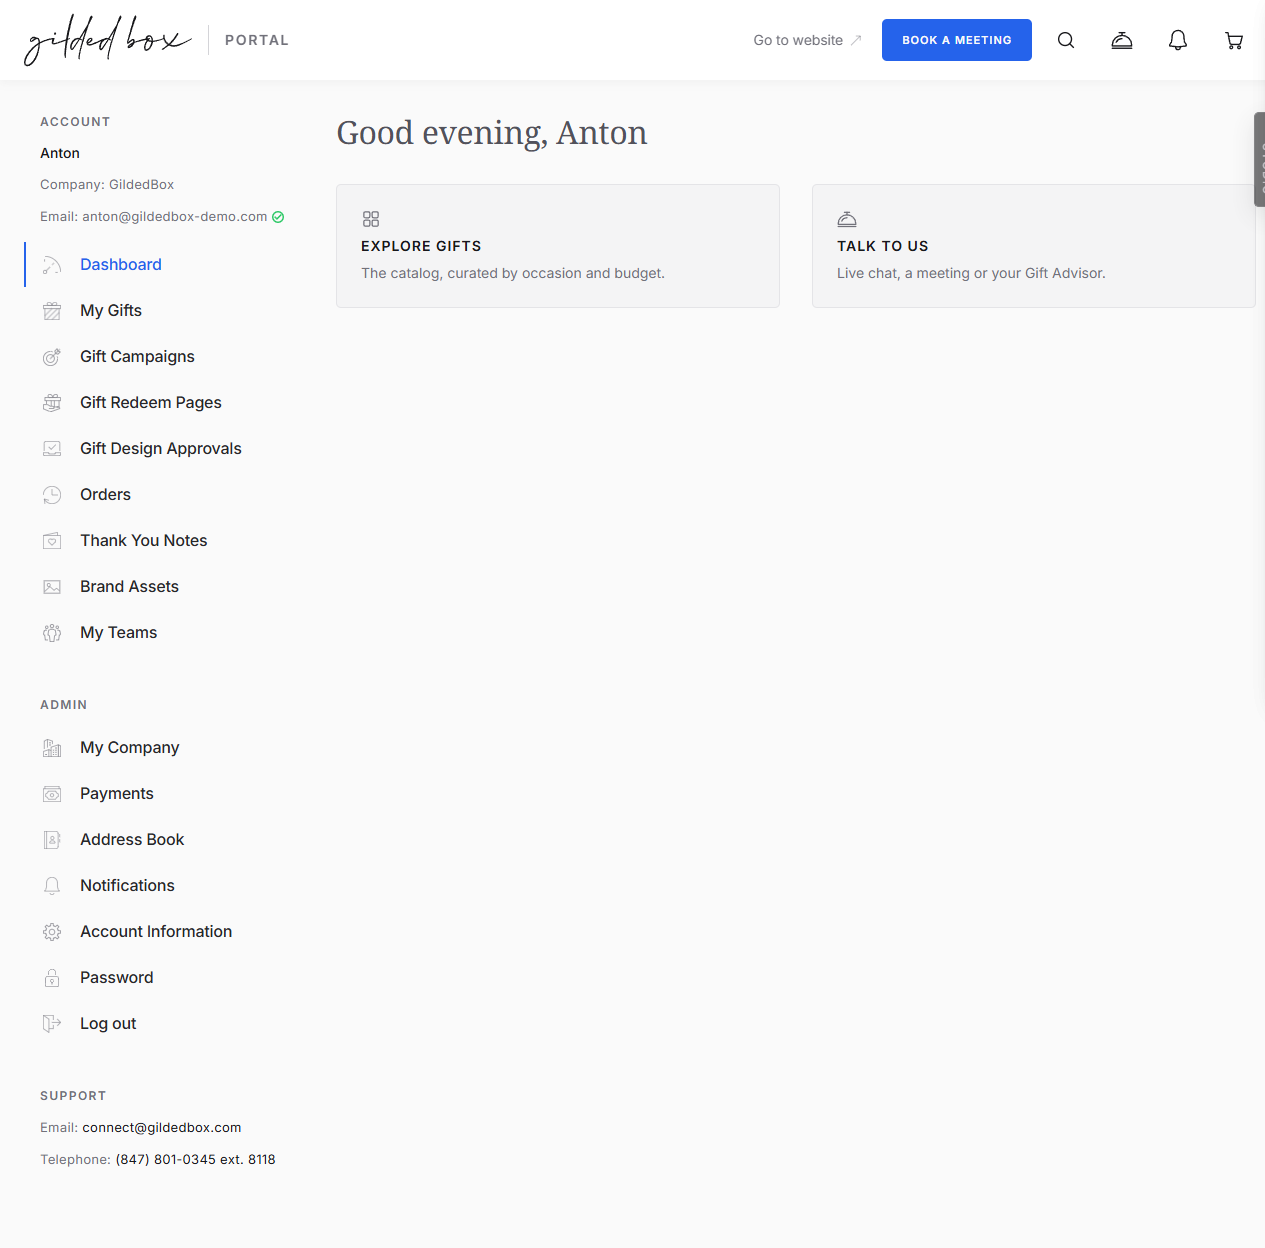
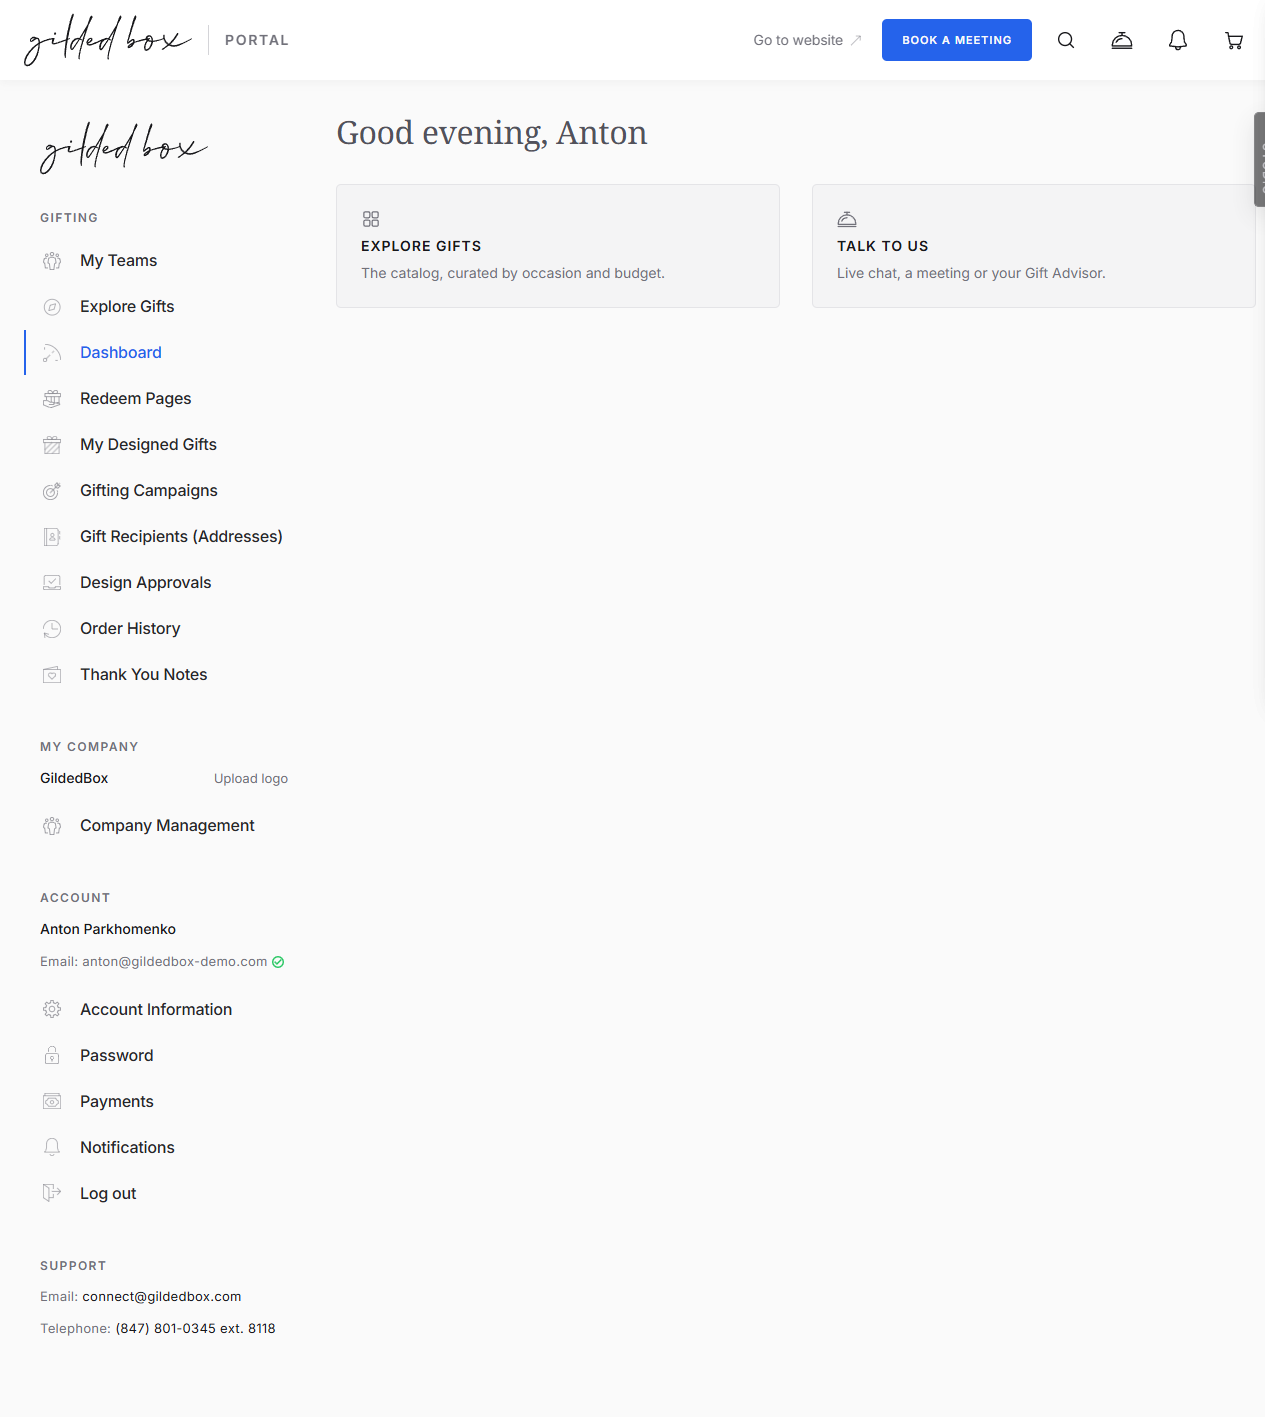
fix(portal): the dashboard wears the ren rail, content and all
Ton: the reference is portal.html?nav=ren, not ton. The probe says
what happened. The SKIN was already ren's, value for value, because
that is the recipe I ported on the first pass: item 46, label 16/500
Zinc 800 at -0.2px in sentence case, glyphs 18 at 0.8 opacity,
eyebrow section titles, the chosen row as a 2px Blue rule with a
blue label, 40 between sections, rail 280. What was still the old
live page was the CONTENT under that skin: Account / Admin /
Support, seventeen rows in the live names and grouping.

nav=ton against nav=ren, measured on the running page: ton is the
boxed rail (white blocks, Zinc 50 header bands, 20/300 section
titles with 2px tracking, 14/400 uppercase labels, 22px glyphs at
full ink, hairlines between rows, rail 320, blue plate on the chosen
row). ren is data-nav="ton" plus the ren skin on top, which
de-boxes all of it. So «ton» was never a second design, it is the
same fork undressed, and the approved thing is the dressed one.

The rail is now ren's block for block and item for item, read off
the running page rather than the source: the wordmark masthead, one
GIFTING group in Russell's renames (My Teams, Explore Gifts,
Dashboard, Redeem Pages, My Designed Gifts, Gifting Campaigns, Gift
Recipients (Addresses), Design Approvals, Order History, Thank You
Notes), My Company with its Upload logo row, Account, Support. Two
things are ours and say so in the markup: Dashboard is the chosen
[…]

diff --git a/live/portal-dashboard.html b/live/portal-dashboard.html
@@ -1413,6 +1413,31 @@ body[data-nav="ton"] .snav-item.active .snav-label { font-weight: 500; color: va
    correction this wave made to live\portal.html itself. */
 body[data-nav="ton"] .snav-icon img { max-width: 18px; max-height: 18px; opacity: .8; }
 
+/* THE MASTHEAD AND THE COMPANY ROW, ported with the rail. Values are
+   live\portal.html's own: the wordmark rides the shared 16px left
+   axis at 8/16 pads, its block keeps a tighter 24 to the first
+   section (the 40 rhythm is section to section), and Upload logo is
+   the quiet 13px text link that stands at the right end of the
+   company row. */
+.masthead-inner { padding: 8px var(--space-16); display: flex; justify-content: flex-start; }
+.masthead-logo { display: block; width: 168px; height: 56px; }
+body[data-nav="ton"] .masthead + .snav-block { margin-top: var(--space-24); }
+.company-block .snav-info .snav-row { justify-content: space-between; }
+.upload-logo {
+  font-size: 13px;                  /* LIVE portal ren: the quiet text link */
+  color: var(--zinc-500);
+  text-decoration: none;
+}
+a.upload-logo, body.gb-demo a.upload-logo { color: var(--zinc-500); }
+.upload-logo:hover { text-decoration: underline; }
+
+/* The page ground is the rail's ground: ren stands on Zinc 50 and so
+   does this. shell.css paints body.gb-demo with --live-body (#fcfdfd,
+   the portal's own near-white), which is a 0-1-1 rule and outranks a
+   bare body, so the class is named here too (measured before:
+   252,253,253 against ren's 250,250,250). */
+body.gb-demo { background: var(--zinc-50); }
+
 /* THE CONTENT COLUMN IS THE RULER, NOT THE WINDOW. With a 320 rail
    beside it the board is 880 at 1280 and 1568 at 2258, and a media
    query would give both the same three columns. */
@@ -1564,51 +1589,74 @@ html[data-gbppd-state="empty"] .gbppd-filled { display: none; }
          portal stands. Both classes are live\portal.html's own. -->
     <div class="layout gb-container">
 
+      <!-- ============ THE RAIL IS live\portal.html?nav=ren ============
+           gbppl-portal-dashboard-10, Ton: «эталон = ?nav=ren». The
+           dashboard wore the ren SKIN already (measured: item 46,
+           label 16/500 Zinc 800 at -0.2, glyphs 18 at .8, eyebrow
+           section titles, blue rule on the chosen row, 40 between
+           sections) but it carried the OLD live CONTENT underneath
+           it. This is ren's rail, block for block and item for item,
+           read off the running page with the probe rather than out
+           of the source: the masthead wordmark, one GIFTING group in
+           Russell's renames, My Company with its Upload logo row,
+           Account, Support.
+
+           TWO THINGS ARE OURS AND SAY SO: Dashboard is the chosen
+           row (on ren the chosen one is My Designed Gifts, because
+           that is the page you are standing on), and Explore Gifts
+           opens the catalogue overlay ON THIS PAGE through the same
+           data-gbppd-catalog door the block action uses. -->
       <aside class="sidebar">
 
+        <section class="snav-block masthead">
+          <div class="masthead-inner">
+            <a href="portal.html"><img class="masthead-logo" src="../system/icons/gildedbox-logo.svg" alt="GildedBox"></a>
+          </div>
+        </section>
+
         <section class="snav-block">
-          <header class="snav-header">
-            <span class="snav-title">Account</span>
-          </header>
+          <header class="snav-header"><span class="snav-title">Gifting</span></header>
+          <nav class="snav-menu">
+          <a class="snav-item" href="portal.html"><span class="snav-icon"><img src="../system/icons/crowd-2.svg" alt=""></span><span class="snav-label">My Teams</span></a>
+          <a class="snav-item" href="catalog/index.html" data-gbppd-catalog><span class="snav-icon"><img src="../system/icons/explore.svg" alt=""></span><span class="snav-label">Explore Gifts</span></a>
+          <a class="snav-item active" href="#"><span class="snav-icon"><img src="../system/icons/metrics.svg" alt=""></span><span class="snav-label">Dashboard</span></a>
+          <a class="snav-item" href="portal.html"><span class="snav-icon"><img src="../system/icons/gift-exchange.svg" alt=""></span><span class="snav-label">Redeem Pages</span></a>
+          <a class="snav-item" href="portal.html"><span class="snav-icon"><img src="../system/icons/gift.svg" alt=""></span><span class="snav-label">My Designed Gifts</span></a>
+          <a class="snav-item" href="portal.html"><span class="snav-icon"><img src="../system/icons/archery-target.svg" alt=""></span><span class="snav-label">Gifting Campaigns</span></a>
+          <a class="snav-item" href="portal.html"><span class="snav-icon"><img src="../system/icons/address-book.svg" alt=""></span><span class="snav-label">Gift Recipients (Addresses)</span></a>
+          <a class="snav-item" href="portal.html"><span class="snav-icon"><img src="../system/icons/laptop-check.svg" alt=""></span><span class="snav-label">Design Approvals</span></a>
+          <a class="snav-item" href="portal.html"><span class="snav-icon"><img src="../system/icons/time-machine.svg" alt=""></span><span class="snav-label">Order History</span></a>
+          <a class="snav-item" href="portal.html"><span class="snav-icon"><img src="../system/icons/love-card.svg" alt=""></span><span class="snav-label">Thank You Notes</span></a>
+          </nav>
+        </section>
+
+        <section class="snav-block company-block">
+          <header class="snav-header"><span class="snav-title">My Company</span></header>
           <div class="snav-info">
-            <div class="snav-row"><span class="snav-name">Anton</span></div>
-            <div class="snav-row"><span class="snav-key">Company:</span><span class="snav-val">GildedBox</span></div>
+            <div class="snav-row"><span class="snav-name">GildedBox</span><a class="upload-logo" href="#">Upload logo</a></div>
+          </div>
+          <nav class="snav-menu">
+          <a class="snav-item" href="portal.html"><span class="snav-icon"><img src="../system/icons/crowd-2.svg" alt=""></span><span class="snav-label">Company Management</span></a>
+          </nav>
+        </section>
+
+        <section class="snav-block">
+          <header class="snav-header"><span class="snav-title">Account</span></header>
+          <div class="snav-info">
+            <div class="snav-row"><span class="snav-name">Anton Parkhomenko</span></div>
             <div class="snav-row"><span class="snav-key">Email:</span><span class="snav-val">anton@gildedbox-demo.com<img class="snav-check" src="../system/icons/c-check.svg" alt=""></span></div>
           </div>
-          <!-- DASHBOARD IS THE NEW ROW, and it is the chosen one.
-               Everything under it is the live list in the live order. -->
           <nav class="snav-menu">
-          <a class="snav-item active" href="#"><span class="snav-icon"><img src="../system/icons/metrics.svg" alt=""></span><span class="snav-label">Dashboard</span></a>
-          <a class="snav-item" href="portal.html"><span class="snav-icon"><img src="../system/icons/gift.svg" alt=""></span><span class="snav-label">My Gifts</span></a>
-          <a class="snav-item" href="#"><span class="snav-icon"><img src="../system/icons/archery-target.svg" alt=""></span><span class="snav-label">Gift Campaigns</span></a>
-          <a class="snav-item" href="#"><span class="snav-icon"><img src="../system/icons/gift-exchange.svg" alt=""></span><span class="snav-label">Gift Redeem Pages</span></a>
-          <a class="snav-item" href="#"><span class="snav-icon"><img src="../system/icons/laptop-check.svg" alt=""></span><span class="snav-label">Gift Design Approvals</span></a>
-          <a class="snav-item" href="#"><span class="snav-icon"><img src="../system/icons/time-machine.svg" alt=""></span><span class="snav-label">Orders</span></a>
-          <a class="snav-item" href="#"><span class="snav-icon"><img src="../system/icons/love-card.svg" alt=""></span><span class="snav-label">Thank You Notes</span></a>
-          <a class="snav-item" href="#"><span class="snav-icon"><img src="../system/icons/brand-assets.svg" alt=""></span><span class="snav-label">Brand Assets</span></a>
-          <a class="snav-item" href="#"><span class="snav-icon"><img src="../system/icons/crowd-2.svg" alt=""></span><span class="snav-label">My Teams</span></a>
+          <a class="snav-item" href="portal.html"><span class="snav-icon"><img src="../system/icons/cogwheel.svg" alt=""></span><span class="snav-label">Account Information</span></a>
+          <a class="snav-item" href="portal.html"><span class="snav-icon"><img src="../system/icons/lock.svg" alt=""></span><span class="snav-label">Password</span></a>
+          <a class="snav-item" href="portal.html"><span class="snav-icon"><img src="../system/icons/money-13.svg" alt=""></span><span class="snav-label">Payments</span></a>
+          <a class="snav-item" href="portal.html"><span class="snav-icon"><img src="../system/icons/alarm.svg" alt=""></span><span class="snav-label">Notifications</span></a>
+          <a class="snav-item" href="portal.html"><span class="snav-icon"><img src="../system/icons/leave.svg" alt=""></span><span class="snav-label">Log out</span></a>
           </nav>
         </section>
 
         <section class="snav-block">
-          <header class="snav-header">
-            <span class="snav-title">Admin</span>
-          </header>
-          <nav class="snav-menu">
-          <a class="snav-item" href="#"><span class="snav-icon"><img src="../system/icons/office.svg" alt=""></span><span class="snav-label">My Company</span></a>
-          <a class="snav-item" href="#"><span class="snav-icon"><img src="../system/icons/money-13.svg" alt=""></span><span class="snav-label">Payments</span></a>
-          <a class="snav-item" href="#"><span class="snav-icon"><img src="../system/icons/address-book.svg" alt=""></span><span class="snav-label">Address Book</span></a>
-          <a class="snav-item" href="#"><span class="snav-icon"><img src="../system/icons/alarm.svg" alt=""></span><span class="snav-label">Notifications</span></a>
-          <a class="snav-item" href="#"><span class="snav-icon"><img src="../system/icons/cogwheel.svg" alt=""></span><span class="snav-label">Account Information</span></a>
-          <a class="snav-item" href="#"><span class="snav-icon"><img src="../system/icons/lock.svg" alt=""></span><span class="snav-label">Password</span></a>
-          <a class="snav-item" href="#"><span class="snav-icon"><img src="../system/icons/leave.svg" alt=""></span><span class="snav-label">Log out</span></a>
-          </nav>
-        </section>
-
-        <section class="snav-block">
-          <header class="snav-header">
-            <span class="snav-title">Support</span>
-          </header>
+          <header class="snav-header"><span class="snav-title">Support</span></header>
           <div class="snav-info">
             <div class="snav-row"><span class="snav-key">Email:</span><a class="snav-val" href="mailto:connect@gildedbox.com">connect@gildedbox.com</a></div>
             <div class="snav-row"><span class="snav-key">Telephone:</span><a class="snav-val" href="tel:+18478010345,8118">(847) 801-0345 ext. 8118</a></div>
